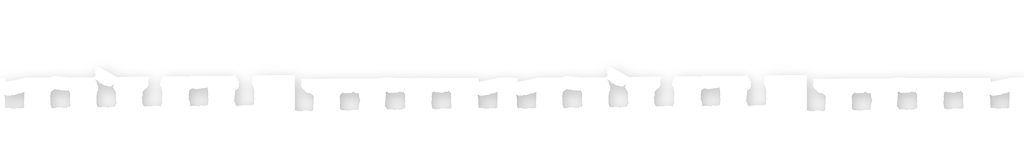
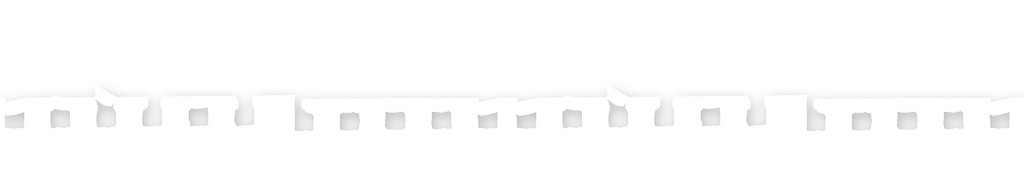
added 20 px at the botton of the buttons's area

diff --git a/lib/plugins/touch-button.js b/lib/plugins/touch-button.js
@@ -48,7 +48,7 @@ ig.TouchButton = ig.Class.extend({
 		var s = ig.system.scale * (internalWidth / ig.system.realWidth);
 		this.area = {
 			x1: this.pos.x * s, y1: this.pos.y * s, 
-			x2: (this.pos.x + this.size.x) * s, y2: (this.pos.y + this.size.y) *s};
+			x2: (this.pos.x + this.size.x) * s, y2: (this.pos.y + this.size.y+20) *s};
 	},
 	
 	touchStart: function( ev ) {
